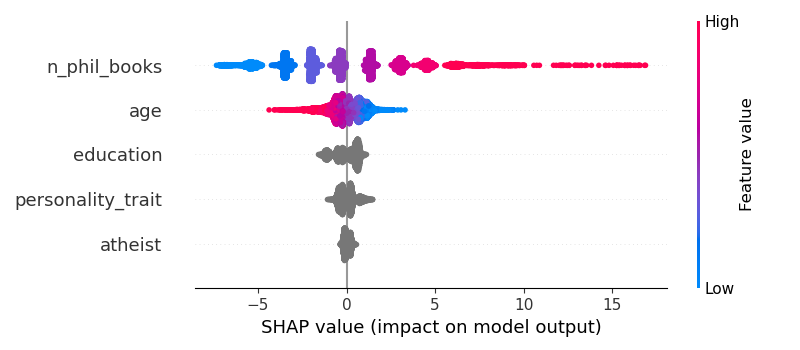
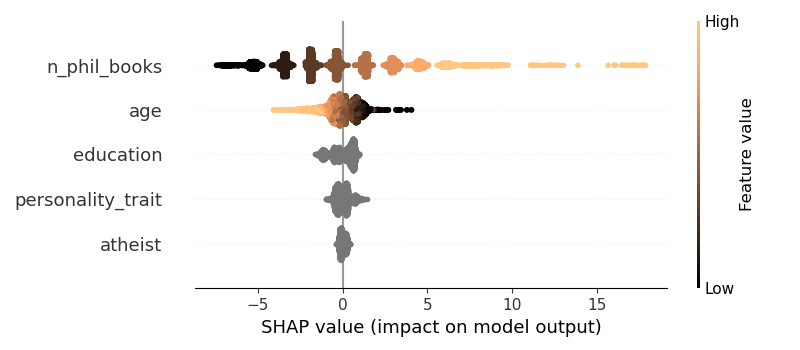
Adapt color map of shap plot.

diff --git a/script.py b/script.py
@@ -1,6 +1,7 @@
 from functools import cache
 from pathlib import Path
 
+import matplotlib as mpl
 import matplotlib.pyplot as plt
 import numpy as np
 import pandas as pd
@@ -302,7 +303,9 @@ def shap_values(learner, covariates):
     plt.clf()
     explainer = learner.explainer()
     shap_values = explainer.shap_values(covariates, TreeExplainer)
-    summary_plot(shap_values[0], features=covariates, show=False)
+    summary_plot(
+        shap_values[0], features=covariates, show=False, cmap=mpl.colormaps["copper"]
+    )
     plt.savefig(results_dir() / "shap_values.png")
 
 
